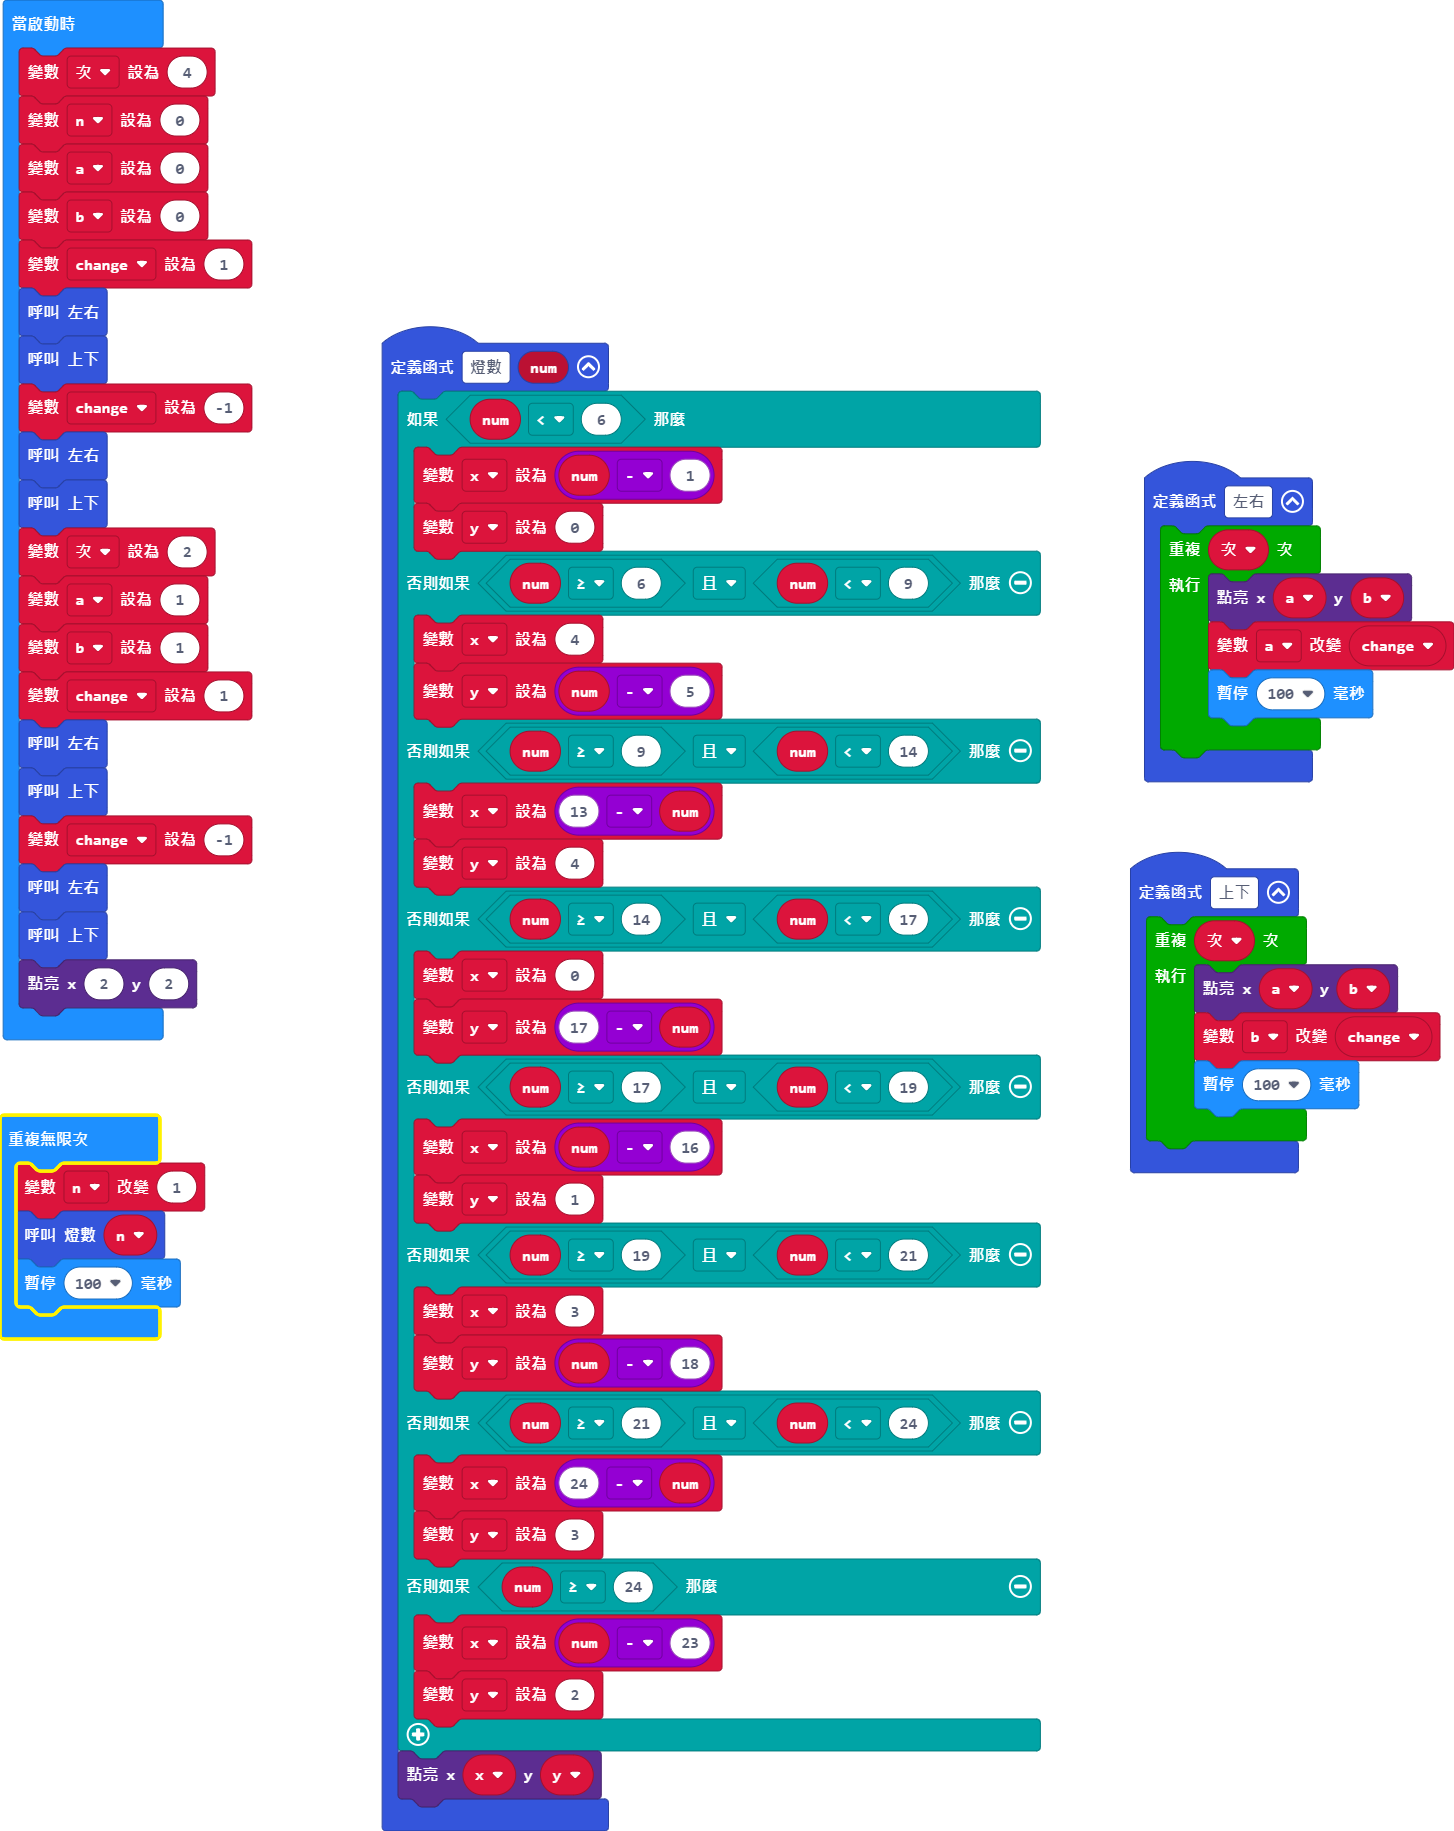
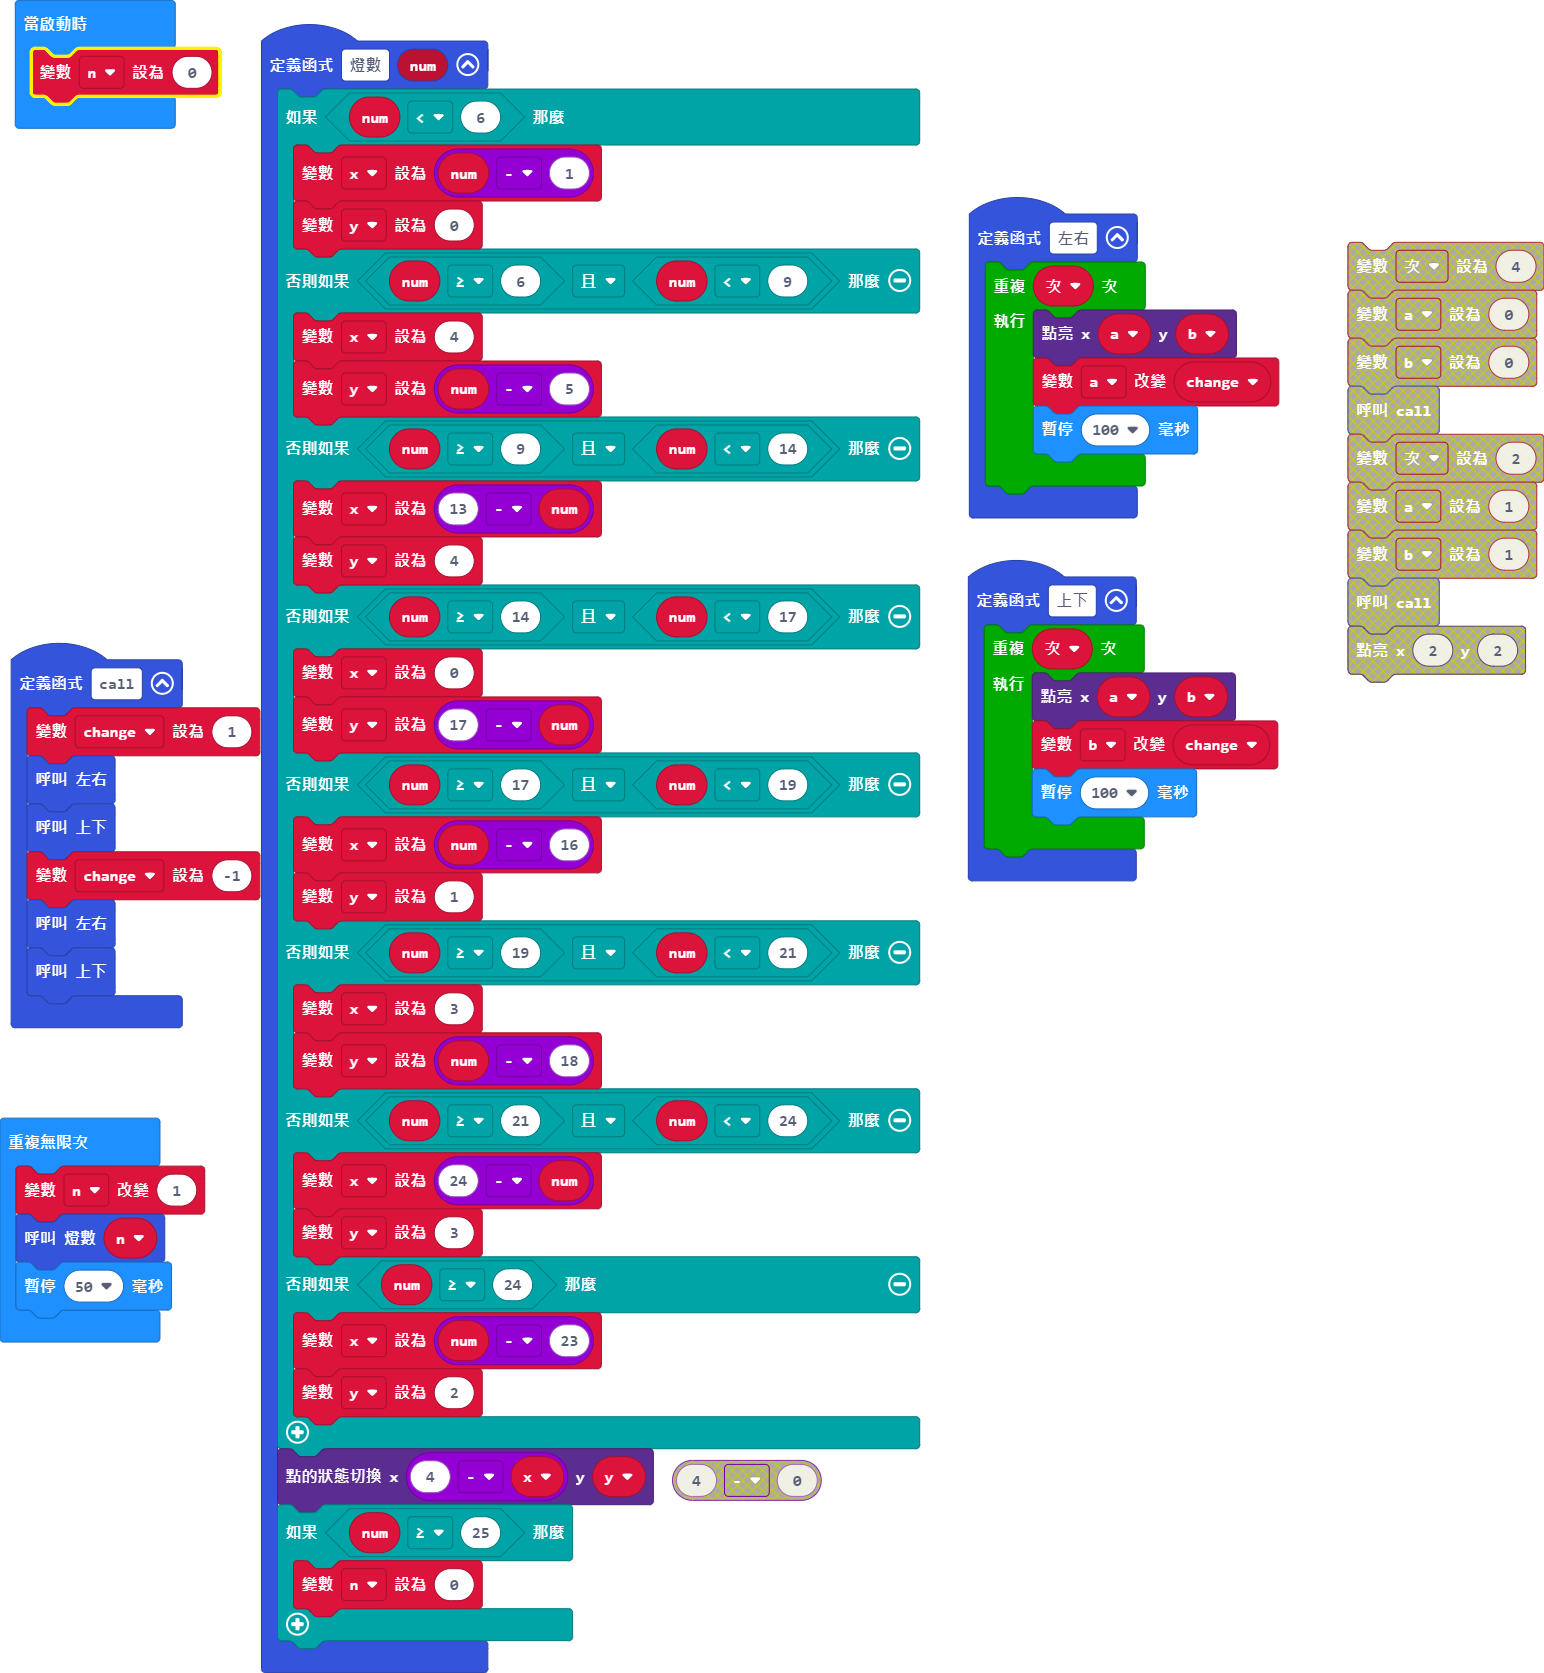
更新 main.blocks, main.ts

diff --git a/main.ts b/main.ts
@@ -24,7 +24,18 @@ function 燈數 (num: number) {
         x = num - 23
         y = 2
     }
-    led.plot(x, y)
+    led.toggle(4 - x, y)
+    if (num >= 25) {
+        n = 0
+    }
+}
+function call () {
+    change = 1
+    左右()
+    上下()
+    change = -1
+    左右()
+    上下()
 }
 function 左右 () {
     for (let index = 0; index < 次; index++) {
@@ -40,34 +51,16 @@ function 上下 () {
         basic.pause(100)
     }
 }
-let y = 0
-let x = 0
-let change = 0
 let b = 0
 let a = 0
 let 次 = 0
-次 = 4
+let change = 0
+let y = 0
+let x = 0
 let n = 0
-a = 0
-b = 0
-change = 1
-左右()
-上下()
-change = -1
-左右()
-上下()
-次 = 2
-a = 1
-b = 1
-change = 1
-左右()
-上下()
-change = -1
-左右()
-上下()
-led.plot(2, 2)
+n = 0
 basic.forever(function () {
     n += 1
     燈數(n)
-    basic.pause(100)
+    basic.pause(50)
 })
